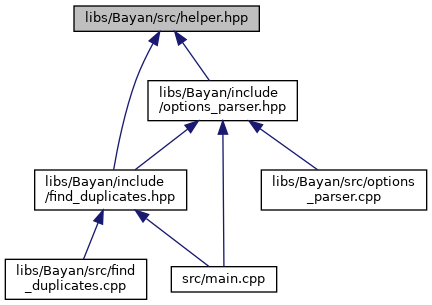
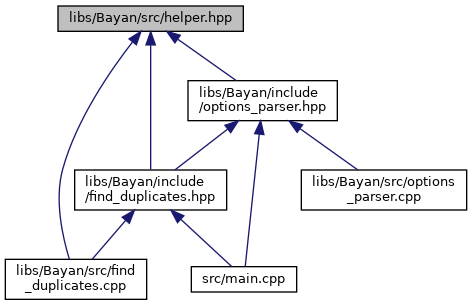
Deploying to gh-pages from @ NotZahar/bayan@f3ab080055457f78f922f0596b9ecba6322375ee 🚀

diff --git a/find__duplicates_8hpp_source.html b/find__duplicates_8hpp_source.html
@@ -74,37 +74,49 @@ $(function() {
 <a href="find__duplicates_8hpp.html">См. документацию.</a><div class="fragment"><div class="line"><a name="l00001"></a><span class="lineno">    1</span>&#160;<span class="preprocessor">#ifndef FIND_DUPLICATES_H</span></div>
 <div class="line"><a name="l00002"></a><span class="lineno">    2</span>&#160;<span class="preprocessor">#define FIND_DUPLICATES_H</span></div>
 <div class="line"><a name="l00003"></a><span class="lineno">    3</span>&#160; </div>
-<div class="line"><a name="l00004"></a><span class="lineno">    4</span>&#160;<span class="preprocessor">#include &lt;unordered_set&gt;</span></div>
-<div class="line"><a name="l00005"></a><span class="lineno">    5</span>&#160; </div>
-<div class="line"><a name="l00006"></a><span class="lineno">    6</span>&#160;<span class="preprocessor">#include &quot;<a class="code" href="options__parser_8hpp.html">options_parser.hpp</a>&quot;</span></div>
-<div class="line"><a name="l00007"></a><span class="lineno">    7</span>&#160;<span class="preprocessor">#include &quot;../src/helper.hpp&quot;</span></div>
+<div class="line"><a name="l00004"></a><span class="lineno">    4</span>&#160;<span class="preprocessor">#include &lt;boost/filesystem/file_status.hpp&gt;</span></div>
+<div class="line"><a name="l00005"></a><span class="lineno">    5</span>&#160;<span class="preprocessor">#include &lt;boost/filesystem/path.hpp&gt;</span></div>
+<div class="line"><a name="l00006"></a><span class="lineno">    6</span>&#160;<span class="preprocessor">#include &lt;boost/unordered_set.hpp&gt;</span></div>
+<div class="line"><a name="l00007"></a><span class="lineno">    7</span>&#160;<span class="preprocessor">#include &lt;boost/regex.hpp&gt;</span></div>
 <div class="line"><a name="l00008"></a><span class="lineno">    8</span>&#160; </div>
-<div class="line"><a name="l00009"></a><span class="lineno"><a class="line" href="namespacebayan.html">    9</a></span>&#160;<span class="keyword">namespace </span><a class="code" href="namespacebayan.html">bayan</a> {</div>
-<div class="line"><a name="l00010"></a><span class="lineno"><a class="line" href="classbayan_1_1FindDuplicates.html">   10</a></span>&#160;    <span class="keyword">class </span><a class="code" href="classbayan_1_1FindDuplicates.html">FindDuplicates</a> {</div>
-<div class="line"><a name="l00011"></a><span class="lineno">   11</span>&#160;    <span class="keyword">public</span>:</div>
-<div class="line"><a name="l00012"></a><span class="lineno"><a class="line" href="classbayan_1_1FindDuplicates.html#abafa29fdb6be05ac0e37fa89cdb2cc69">   12</a></span>&#160;        <a class="code" href="classbayan_1_1FindDuplicates.html#abafa29fdb6be05ac0e37fa89cdb2cc69">FindDuplicates</a>() = <span class="keyword">delete</span>;</div>
-<div class="line"><a name="l00013"></a><span class="lineno">   13</span>&#160;        <span class="keyword">explicit</span> <a class="code" href="classbayan_1_1FindDuplicates.html#abafa29fdb6be05ac0e37fa89cdb2cc69">FindDuplicates</a>(<a class="code" href="structbayan_1_1OptionsParser_1_1Options.html">OptionsParser::Options</a> options);</div>
-<div class="line"><a name="l00014"></a><span class="lineno"><a class="line" href="classbayan_1_1FindDuplicates.html#a43cbff9e5eaf21ba41545597d4b7656d">   14</a></span>&#160;        <a class="code" href="classbayan_1_1FindDuplicates.html#a43cbff9e5eaf21ba41545597d4b7656d">~FindDuplicates</a>() = <span class="keywordflow">default</span>;</div>
-<div class="line"><a name="l00015"></a><span class="lineno">   15</span>&#160; </div>
-<div class="line"><a name="l00016"></a><span class="lineno">   16</span>&#160;        std::string <a class="code" href="classbayan_1_1FindDuplicates.html#acba0a41e3931d625814ad97484a93e3d">duplicates</a>() <span class="keyword">const</span>;</div>
-<div class="line"><a name="l00017"></a><span class="lineno">   17</span>&#160; </div>
-<div class="line"><a name="l00018"></a><span class="lineno">   18</span>&#160;    <span class="keyword">private</span>:</div>
-<div class="line"><a name="l00019"></a><span class="lineno">   19</span>&#160;        std::unordered_set&lt;std::string&gt; _scanDirs;</div>
-<div class="line"><a name="l00020"></a><span class="lineno">   20</span>&#160;        std::unordered_set&lt;std::string&gt; _scanEDirs;</div>
-<div class="line"><a name="l00021"></a><span class="lineno">   21</span>&#160;        std::unordered_set&lt;std::string&gt; _fileMasks;</div>
-<div class="line"><a name="l00022"></a><span class="lineno">   22</span>&#160;        <a class="code" href="namespacebayan.html#acd30b14027858a29aeb308d029a5ec72">scanLevel</a> _level;</div>
-<div class="line"><a name="l00023"></a><span class="lineno">   23</span>&#160;        <span class="keywordtype">unsigned</span> <span class="keywordtype">int</span> _fileMinSize;</div>
-<div class="line"><a name="l00024"></a><span class="lineno">   24</span>&#160;        <span class="keywordtype">unsigned</span> <span class="keywordtype">int</span> _blockSize;</div>
-<div class="line"><a name="l00025"></a><span class="lineno">   25</span>&#160;        <a class="code" href="namespacebayan.html#a6c9e7c798ad66b9e4be5bdac54ef967f">hashAlgorithm</a> _algorithm;</div>
-<div class="line"><a name="l00026"></a><span class="lineno">   26</span>&#160;    };</div>
-<div class="line"><a name="l00027"></a><span class="lineno">   27</span>&#160;}</div>
-<div class="line"><a name="l00028"></a><span class="lineno">   28</span>&#160; </div>
-<div class="line"><a name="l00029"></a><span class="lineno">   29</span>&#160;<span class="preprocessor">#endif </span><span class="comment">// FIND_DUPLICATES_H</span></div>
-<div class="ttc" id="aclassbayan_1_1FindDuplicates_html"><div class="ttname"><a href="classbayan_1_1FindDuplicates.html">bayan::FindDuplicates</a></div><div class="ttdef"><b>Definition:</b> find_duplicates.hpp:10</div></div>
+<div class="line"><a name="l00009"></a><span class="lineno">    9</span>&#160;<span class="preprocessor">#include &quot;<a class="code" href="options__parser_8hpp.html">options_parser.hpp</a>&quot;</span></div>
+<div class="line"><a name="l00010"></a><span class="lineno">   10</span>&#160;<span class="preprocessor">#include &quot;../src/helper.hpp&quot;</span></div>
+<div class="line"><a name="l00011"></a><span class="lineno">   11</span>&#160; </div>
+<div class="line"><a name="l00012"></a><span class="lineno"><a class="line" href="namespacebayan.html">   12</a></span>&#160;<span class="keyword">namespace </span><a class="code" href="namespacebayan.html">bayan</a> {</div>
+<div class="line"><a name="l00013"></a><span class="lineno"><a class="line" href="classbayan_1_1FindDuplicates.html">   13</a></span>&#160;    <span class="keyword">class </span><a class="code" href="classbayan_1_1FindDuplicates.html">FindDuplicates</a> {</div>
+<div class="line"><a name="l00014"></a><span class="lineno">   14</span>&#160;    <span class="keyword">public</span>:</div>
+<div class="line"><a name="l00015"></a><span class="lineno"><a class="line" href="classbayan_1_1FindDuplicates.html#abafa29fdb6be05ac0e37fa89cdb2cc69">   15</a></span>&#160;        <a class="code" href="classbayan_1_1FindDuplicates.html#abafa29fdb6be05ac0e37fa89cdb2cc69">FindDuplicates</a>() = <span class="keyword">delete</span>;</div>
+<div class="line"><a name="l00016"></a><span class="lineno">   16</span>&#160;        <span class="keyword">explicit</span> <a class="code" href="classbayan_1_1FindDuplicates.html#abafa29fdb6be05ac0e37fa89cdb2cc69">FindDuplicates</a>(<a class="code" href="structbayan_1_1OptionsParser_1_1Options.html">OptionsParser::Options</a> options);</div>
+<div class="line"><a name="l00017"></a><span class="lineno"><a class="line" href="classbayan_1_1FindDuplicates.html#a43cbff9e5eaf21ba41545597d4b7656d">   17</a></span>&#160;        <a class="code" href="classbayan_1_1FindDuplicates.html#a43cbff9e5eaf21ba41545597d4b7656d">~FindDuplicates</a>() = <span class="keywordflow">default</span>;</div>
+<div class="line"><a name="l00018"></a><span class="lineno">   18</span>&#160; </div>
+<div class="line"><a name="l00019"></a><span class="lineno">   19</span>&#160;        boost::unordered_set&lt;boost::filesystem::path&gt; <a class="code" href="classbayan_1_1FindDuplicates.html#a07603db4104924e08537a2f0b6f80237">duplicates</a>() <span class="keyword">const</span>;</div>
+<div class="line"><a name="l00020"></a><span class="lineno">   20</span>&#160; </div>
+<div class="line"><a name="l00021"></a><span class="lineno">   21</span>&#160;    <span class="keyword">private</span>:</div>
+<div class="line"><a name="l00022"></a><span class="lineno">   22</span>&#160;        <span class="keyword">enum class</span> fileType {</div>
+<div class="line"><a name="l00023"></a><span class="lineno">   23</span>&#160;            regular,</div>
+<div class="line"><a name="l00024"></a><span class="lineno">   24</span>&#160;            directory,</div>
+<div class="line"><a name="l00025"></a><span class="lineno">   25</span>&#160;            other  </div>
+<div class="line"><a name="l00026"></a><span class="lineno">   26</span>&#160;        };</div>
+<div class="line"><a name="l00027"></a><span class="lineno">   27</span>&#160; </div>
+<div class="line"><a name="l00028"></a><span class="lineno">   28</span>&#160;        fileType getFileType(<span class="keyword">const</span> boost::filesystem::directory_entry&amp; file) <span class="keyword">const</span>;</div>
+<div class="line"><a name="l00029"></a><span class="lineno">   29</span>&#160;        <span class="keywordtype">bool</span> filterPassed(<span class="keyword">const</span> boost::filesystem::path&amp; path) <span class="keyword">const</span>;</div>
+<div class="line"><a name="l00030"></a><span class="lineno">   30</span>&#160; </div>
+<div class="line"><a name="l00031"></a><span class="lineno">   31</span>&#160;        boost::unordered_set&lt;boost::filesystem::path&gt; _scanDirs;</div>
+<div class="line"><a name="l00032"></a><span class="lineno">   32</span>&#160;        boost::unordered_set&lt;boost::filesystem::path&gt; _scanEDirs;</div>
+<div class="line"><a name="l00033"></a><span class="lineno">   33</span>&#160;        boost::unordered_set&lt;boost::regex&gt; _fileMasks;</div>
+<div class="line"><a name="l00034"></a><span class="lineno">   34</span>&#160;        <a class="code" href="namespacebayan.html#acd30b14027858a29aeb308d029a5ec72">scanLevel</a> _level;</div>
+<div class="line"><a name="l00035"></a><span class="lineno">   35</span>&#160;        <span class="keywordtype">unsigned</span> <span class="keywordtype">int</span> _fileMinSize;</div>
+<div class="line"><a name="l00036"></a><span class="lineno">   36</span>&#160;        <span class="keywordtype">unsigned</span> <span class="keywordtype">int</span> _blockSize;</div>
+<div class="line"><a name="l00037"></a><span class="lineno">   37</span>&#160;        <a class="code" href="namespacebayan.html#a6c9e7c798ad66b9e4be5bdac54ef967f">hashAlgorithm</a> _algorithm;</div>
+<div class="line"><a name="l00038"></a><span class="lineno">   38</span>&#160;    };</div>
+<div class="line"><a name="l00039"></a><span class="lineno">   39</span>&#160;}</div>
+<div class="line"><a name="l00040"></a><span class="lineno">   40</span>&#160; </div>
+<div class="line"><a name="l00041"></a><span class="lineno">   41</span>&#160;<span class="preprocessor">#endif </span><span class="comment">// FIND_DUPLICATES_H</span></div>
+<div class="ttc" id="aclassbayan_1_1FindDuplicates_html"><div class="ttname"><a href="classbayan_1_1FindDuplicates.html">bayan::FindDuplicates</a></div><div class="ttdef"><b>Definition:</b> find_duplicates.hpp:13</div></div>
+<div class="ttc" id="aclassbayan_1_1FindDuplicates_html_a07603db4104924e08537a2f0b6f80237"><div class="ttname"><a href="classbayan_1_1FindDuplicates.html#a07603db4104924e08537a2f0b6f80237">bayan::FindDuplicates::duplicates</a></div><div class="ttdeci">boost::unordered_set&lt; boost::filesystem::path &gt; duplicates() const</div><div class="ttdef"><b>Definition:</b> find_duplicates.cpp:34</div></div>
 <div class="ttc" id="aclassbayan_1_1FindDuplicates_html_a43cbff9e5eaf21ba41545597d4b7656d"><div class="ttname"><a href="classbayan_1_1FindDuplicates.html#a43cbff9e5eaf21ba41545597d4b7656d">bayan::FindDuplicates::~FindDuplicates</a></div><div class="ttdeci">~FindDuplicates()=default</div></div>
 <div class="ttc" id="aclassbayan_1_1FindDuplicates_html_abafa29fdb6be05ac0e37fa89cdb2cc69"><div class="ttname"><a href="classbayan_1_1FindDuplicates.html#abafa29fdb6be05ac0e37fa89cdb2cc69">bayan::FindDuplicates::FindDuplicates</a></div><div class="ttdeci">FindDuplicates()=delete</div></div>
-<div class="ttc" id="aclassbayan_1_1FindDuplicates_html_acba0a41e3931d625814ad97484a93e3d"><div class="ttname"><a href="classbayan_1_1FindDuplicates.html#acba0a41e3931d625814ad97484a93e3d">bayan::FindDuplicates::duplicates</a></div><div class="ttdeci">std::string duplicates() const</div><div class="ttdef"><b>Definition:</b> find_duplicates.cpp:24</div></div>
-<div class="ttc" id="anamespacebayan_html"><div class="ttname"><a href="namespacebayan.html">bayan</a></div><div class="ttdef"><b>Definition:</b> find_duplicates.hpp:9</div></div>
+<div class="ttc" id="anamespacebayan_html"><div class="ttname"><a href="namespacebayan.html">bayan</a></div><div class="ttdef"><b>Definition:</b> find_duplicates.hpp:12</div></div>
 <div class="ttc" id="anamespacebayan_html_a6c9e7c798ad66b9e4be5bdac54ef967f"><div class="ttname"><a href="namespacebayan.html#a6c9e7c798ad66b9e4be5bdac54ef967f">bayan::hashAlgorithm</a></div><div class="ttdeci">hashAlgorithm</div><div class="ttdef"><b>Definition:</b> helper.hpp:13</div></div>
 <div class="ttc" id="anamespacebayan_html_acd30b14027858a29aeb308d029a5ec72"><div class="ttname"><a href="namespacebayan.html#acd30b14027858a29aeb308d029a5ec72">bayan::scanLevel</a></div><div class="ttdeci">scanLevel</div><div class="ttdef"><b>Definition:</b> helper.hpp:8</div></div>
 <div class="ttc" id="aoptions__parser_8hpp_html"><div class="ttname"><a href="options__parser_8hpp.html">options_parser.hpp</a></div></div>

diff --git a/options__parser_8hpp_source.html b/options__parser_8hpp_source.html
@@ -98,9 +98,9 @@ $(function() {
 <div class="line"><a name="l00025"></a><span class="lineno"><a class="line" href="structbayan_1_1OptionsParser_1_1Options.html#a9dcc943c116a34f3df2a8a9dc31e0778">   25</a></span>&#160;            <span class="keywordtype">bool</span> <a class="code" href="structbayan_1_1OptionsParser_1_1Options.html#a9dcc943c116a34f3df2a8a9dc31e0778">helper</a> = <span class="keyword">false</span>;</div>
 <div class="line"><a name="l00026"></a><span class="lineno"><a class="line" href="structbayan_1_1OptionsParser_1_1Options.html#a0626a5038a4a9611bf36f52dc5315e58">   26</a></span>&#160;            std::vector&lt;std::string&gt; <a class="code" href="structbayan_1_1OptionsParser_1_1Options.html#a0626a5038a4a9611bf36f52dc5315e58">dirs</a> = { <span class="stringliteral">&quot;./&quot;</span> };</div>
 <div class="line"><a name="l00027"></a><span class="lineno"><a class="line" href="structbayan_1_1OptionsParser_1_1Options.html#a48f891ace7726e1c1a941117fade4af0">   27</a></span>&#160;            std::vector&lt;std::string&gt; <a class="code" href="structbayan_1_1OptionsParser_1_1Options.html#a48f891ace7726e1c1a941117fade4af0">eDirs</a> = {};</div>
-<div class="line"><a name="l00028"></a><span class="lineno"><a class="line" href="structbayan_1_1OptionsParser_1_1Options.html#a739848c0bc3b3d5d01f4e1dc2c2b6e92">   28</a></span>&#160;            <a class="code" href="namespacebayan.html#acd30b14027858a29aeb308d029a5ec72">scanLevel</a> <a class="code" href="structbayan_1_1OptionsParser_1_1Options.html#a739848c0bc3b3d5d01f4e1dc2c2b6e92">level</a> = <a class="code" href="namespacebayan.html#acd30b14027858a29aeb308d029a5ec72a4b3928a5db1f5d996fa2edae70f14fe5">scanLevel::current</a>;</div>
+<div class="line"><a name="l00028"></a><span class="lineno"><a class="line" href="structbayan_1_1OptionsParser_1_1Options.html#a739848c0bc3b3d5d01f4e1dc2c2b6e92">   28</a></span>&#160;            <a class="code" href="namespacebayan.html#acd30b14027858a29aeb308d029a5ec72">scanLevel</a> <a class="code" href="structbayan_1_1OptionsParser_1_1Options.html#a739848c0bc3b3d5d01f4e1dc2c2b6e92">level</a> = <a class="code" href="namespacebayan.html#acd30b14027858a29aeb308d029a5ec72ae6d56afcea8e8f8c9fd2456f2b6333ef">scanLevel::all</a>;</div>
 <div class="line"><a name="l00029"></a><span class="lineno"><a class="line" href="structbayan_1_1OptionsParser_1_1Options.html#a7f900f5eefc86eb4b84a40544c184cc7">   29</a></span>&#160;            <span class="keywordtype">unsigned</span> <span class="keywordtype">int</span> <a class="code" href="structbayan_1_1OptionsParser_1_1Options.html#a7f900f5eefc86eb4b84a40544c184cc7">fileMinSize</a> = 1;</div>
-<div class="line"><a name="l00030"></a><span class="lineno"><a class="line" href="structbayan_1_1OptionsParser_1_1Options.html#ae81161c2ed1ecb5845852b2fdfc58042">   30</a></span>&#160;            std::vector&lt;std::string&gt; <a class="code" href="structbayan_1_1OptionsParser_1_1Options.html#ae81161c2ed1ecb5845852b2fdfc58042">fileMasks</a> = { <span class="stringliteral">&quot;*&quot;</span> };</div>
+<div class="line"><a name="l00030"></a><span class="lineno"><a class="line" href="structbayan_1_1OptionsParser_1_1Options.html#ae81161c2ed1ecb5845852b2fdfc58042">   30</a></span>&#160;            std::vector&lt;std::string&gt; <a class="code" href="structbayan_1_1OptionsParser_1_1Options.html#ae81161c2ed1ecb5845852b2fdfc58042">fileMasks</a> = { <span class="stringliteral">&quot;.*&quot;</span> };</div>
 <div class="line"><a name="l00031"></a><span class="lineno"><a class="line" href="structbayan_1_1OptionsParser_1_1Options.html#adb911a54ca88e56a00f5b808550c91a0">   31</a></span>&#160;            <span class="keywordtype">unsigned</span> <span class="keywordtype">int</span> <a class="code" href="structbayan_1_1OptionsParser_1_1Options.html#adb911a54ca88e56a00f5b808550c91a0">blockSize</a> = 5;</div>
 <div class="line"><a name="l00032"></a><span class="lineno"><a class="line" href="structbayan_1_1OptionsParser_1_1Options.html#a6d46f13243288e16505b35532a22dd0e">   32</a></span>&#160;            <a class="code" href="namespacebayan.html#a6c9e7c798ad66b9e4be5bdac54ef967f">hashAlgorithm</a> <a class="code" href="structbayan_1_1OptionsParser_1_1Options.html#a6d46f13243288e16505b35532a22dd0e">algorithm</a> = <a class="code" href="namespacebayan.html#a6c9e7c798ad66b9e4be5bdac54ef967fa1bc29b36f623ba82aaf6724fd3b16718">hashAlgorithm::md5</a>;</div>
 <div class="line"><a name="l00033"></a><span class="lineno">   33</span>&#160; </div>
@@ -130,12 +130,12 @@ $(function() {
 <div class="ttc" id="aclassbayan_1_1OptionsParser_html_a6259b1e6b41c79ab8a7a301b3dee0365"><div class="ttname"><a href="classbayan_1_1OptionsParser.html#a6259b1e6b41c79ab8a7a301b3dee0365">bayan::OptionsParser::OptionsParser</a></div><div class="ttdeci">OptionsParser()=delete</div></div>
 <div class="ttc" id="aclassbayan_1_1OptionsParser_html_a6e6bbf831885e23f264f9207eebd5731"><div class="ttname"><a href="classbayan_1_1OptionsParser.html#a6e6bbf831885e23f264f9207eebd5731">bayan::OptionsParser::options_description</a></div><div class="ttdeci">boost::program_options::options_description options_description</div><div class="ttdef"><b>Definition:</b> options_parser.hpp:17</div></div>
 <div class="ttc" id="aclassbayan_1_1OptionsParser_html_ae47926ce30e911d109495d0452edd56c"><div class="ttname"><a href="classbayan_1_1OptionsParser.html#ae47926ce30e911d109495d0452edd56c">bayan::OptionsParser::getOptions</a></div><div class="ttdeci">Options getOptions() const</div><div class="ttdef"><b>Definition:</b> options_parser.cpp:13</div></div>
-<div class="ttc" id="anamespacebayan_html"><div class="ttname"><a href="namespacebayan.html">bayan</a></div><div class="ttdef"><b>Definition:</b> find_duplicates.hpp:9</div></div>
+<div class="ttc" id="anamespacebayan_html"><div class="ttname"><a href="namespacebayan.html">bayan</a></div><div class="ttdef"><b>Definition:</b> find_duplicates.hpp:12</div></div>
 <div class="ttc" id="anamespacebayan_html_a6c9e7c798ad66b9e4be5bdac54ef967f"><div class="ttname"><a href="namespacebayan.html#a6c9e7c798ad66b9e4be5bdac54ef967f">bayan::hashAlgorithm</a></div><div class="ttdeci">hashAlgorithm</div><div class="ttdef"><b>Definition:</b> helper.hpp:13</div></div>
 <div class="ttc" id="anamespacebayan_html_a6c9e7c798ad66b9e4be5bdac54ef967fa058063301b99cb43d6165291cb9f086a"><div class="ttname"><a href="namespacebayan.html#a6c9e7c798ad66b9e4be5bdac54ef967fa058063301b99cb43d6165291cb9f086a">bayan::hashAlgorithm::crc32</a></div><div class="ttdeci">@ crc32</div></div>
 <div class="ttc" id="anamespacebayan_html_a6c9e7c798ad66b9e4be5bdac54ef967fa1bc29b36f623ba82aaf6724fd3b16718"><div class="ttname"><a href="namespacebayan.html#a6c9e7c798ad66b9e4be5bdac54ef967fa1bc29b36f623ba82aaf6724fd3b16718">bayan::hashAlgorithm::md5</a></div><div class="ttdeci">@ md5</div></div>
 <div class="ttc" id="anamespacebayan_html_acd30b14027858a29aeb308d029a5ec72"><div class="ttname"><a href="namespacebayan.html#acd30b14027858a29aeb308d029a5ec72">bayan::scanLevel</a></div><div class="ttdeci">scanLevel</div><div class="ttdef"><b>Definition:</b> helper.hpp:8</div></div>
-<div class="ttc" id="anamespacebayan_html_acd30b14027858a29aeb308d029a5ec72a4b3928a5db1f5d996fa2edae70f14fe5"><div class="ttname"><a href="namespacebayan.html#acd30b14027858a29aeb308d029a5ec72a4b3928a5db1f5d996fa2edae70f14fe5">bayan::current</a></div><div class="ttdeci">@ current</div><div class="ttdef"><b>Definition:</b> helper.hpp:9</div></div>
+<div class="ttc" id="anamespacebayan_html_acd30b14027858a29aeb308d029a5ec72ae6d56afcea8e8f8c9fd2456f2b6333ef"><div class="ttname"><a href="namespacebayan.html#acd30b14027858a29aeb308d029a5ec72ae6d56afcea8e8f8c9fd2456f2b6333ef">bayan::all</a></div><div class="ttdeci">@ all</div><div class="ttdef"><b>Definition:</b> helper.hpp:10</div></div>
 <div class="ttc" id="astructbayan_1_1OptionsParser_1_1Options_html"><div class="ttname"><a href="structbayan_1_1OptionsParser_1_1Options.html">bayan::OptionsParser::Options</a></div><div class="ttdef"><b>Definition:</b> options_parser.hpp:24</div></div>
 <div class="ttc" id="astructbayan_1_1OptionsParser_1_1Options_html_a0626a5038a4a9611bf36f52dc5315e58"><div class="ttname"><a href="structbayan_1_1OptionsParser_1_1Options.html#a0626a5038a4a9611bf36f52dc5315e58">bayan::OptionsParser::Options::dirs</a></div><div class="ttdeci">std::vector&lt; std::string &gt; dirs</div><div class="ttdef"><b>Definition:</b> options_parser.hpp:26</div></div>
 <div class="ttc" id="astructbayan_1_1OptionsParser_1_1Options_html_a48f891ace7726e1c1a941117fade4af0"><div class="ttname"><a href="structbayan_1_1OptionsParser_1_1Options.html#a48f891ace7726e1c1a941117fade4af0">bayan::OptionsParser::Options::eDirs</a></div><div class="ttdeci">std::vector&lt; std::string &gt; eDirs</div><div class="ttdef"><b>Definition:</b> options_parser.hpp:27</div></div>

diff --git a/structbayan_1_1OptionsParser_1_1Options.html b/structbayan_1_1OptionsParser_1_1Options.html
@@ -86,11 +86,11 @@ $(function() {
 <tr class="separator:a0626a5038a4a9611bf36f52dc5315e58"><td class="memSeparator" colspan="2">&#160;</td></tr>
 <tr class="memitem:a48f891ace7726e1c1a941117fade4af0"><td class="memItemLeft" align="right" valign="top">std::vector&lt; std::string &gt;&#160;</td><td class="memItemRight" valign="bottom"><a class="el" href="structbayan_1_1OptionsParser_1_1Options.html#a48f891ace7726e1c1a941117fade4af0">eDirs</a> = {}</td></tr>
 <tr class="separator:a48f891ace7726e1c1a941117fade4af0"><td class="memSeparator" colspan="2">&#160;</td></tr>
-<tr class="memitem:a739848c0bc3b3d5d01f4e1dc2c2b6e92"><td class="memItemLeft" align="right" valign="top"><a class="el" href="namespacebayan.html#acd30b14027858a29aeb308d029a5ec72">scanLevel</a>&#160;</td><td class="memItemRight" valign="bottom"><a class="el" href="structbayan_1_1OptionsParser_1_1Options.html#a739848c0bc3b3d5d01f4e1dc2c2b6e92">level</a> = scanLevel::current</td></tr>
+<tr class="memitem:a739848c0bc3b3d5d01f4e1dc2c2b6e92"><td class="memItemLeft" align="right" valign="top"><a class="el" href="namespacebayan.html#acd30b14027858a29aeb308d029a5ec72">scanLevel</a>&#160;</td><td class="memItemRight" valign="bottom"><a class="el" href="structbayan_1_1OptionsParser_1_1Options.html#a739848c0bc3b3d5d01f4e1dc2c2b6e92">level</a> = scanLevel::all</td></tr>
 <tr class="separator:a739848c0bc3b3d5d01f4e1dc2c2b6e92"><td class="memSeparator" colspan="2">&#160;</td></tr>
 <tr class="memitem:a7f900f5eefc86eb4b84a40544c184cc7"><td class="memItemLeft" align="right" valign="top">unsigned int&#160;</td><td class="memItemRight" valign="bottom"><a class="el" href="structbayan_1_1OptionsParser_1_1Options.html#a7f900f5eefc86eb4b84a40544c184cc7">fileMinSize</a> = 1</td></tr>
 <tr class="separator:a7f900f5eefc86eb4b84a40544c184cc7"><td class="memSeparator" colspan="2">&#160;</td></tr>
-<tr class="memitem:ae81161c2ed1ecb5845852b2fdfc58042"><td class="memItemLeft" align="right" valign="top">std::vector&lt; std::string &gt;&#160;</td><td class="memItemRight" valign="bottom"><a class="el" href="structbayan_1_1OptionsParser_1_1Options.html#ae81161c2ed1ecb5845852b2fdfc58042">fileMasks</a> = { &quot;*&quot; }</td></tr>
+<tr class="memitem:ae81161c2ed1ecb5845852b2fdfc58042"><td class="memItemLeft" align="right" valign="top">std::vector&lt; std::string &gt;&#160;</td><td class="memItemRight" valign="bottom"><a class="el" href="structbayan_1_1OptionsParser_1_1Options.html#ae81161c2ed1ecb5845852b2fdfc58042">fileMasks</a> = { &quot;.*&quot; }</td></tr>
 <tr class="separator:ae81161c2ed1ecb5845852b2fdfc58042"><td class="memSeparator" colspan="2">&#160;</td></tr>
 <tr class="memitem:adb911a54ca88e56a00f5b808550c91a0"><td class="memItemLeft" align="right" valign="top">unsigned int&#160;</td><td class="memItemRight" valign="bottom"><a class="el" href="structbayan_1_1OptionsParser_1_1Options.html#adb911a54ca88e56a00f5b808550c91a0">blockSize</a> = 5</td></tr>
 <tr class="separator:adb911a54ca88e56a00f5b808550c91a0"><td class="memSeparator" colspan="2">&#160;</td></tr>
@@ -203,7 +203,7 @@ $(function() {
 <div class="memproto">
       <table class="memname">
         <tr>
-          <td class="memname">std::vector&lt;std::string&gt; bayan::OptionsParser::Options::fileMasks = { &quot;*&quot; }</td>
+          <td class="memname">std::vector&lt;std::string&gt; bayan::OptionsParser::Options::fileMasks = { &quot;.*&quot; }</td>
         </tr>
       </table>
 </div><div class="memdoc">
@@ -245,7 +245,7 @@ $(function() {
 <div class="memproto">
       <table class="memname">
         <tr>
-          <td class="memname"><a class="el" href="namespacebayan.html#acd30b14027858a29aeb308d029a5ec72">scanLevel</a> bayan::OptionsParser::Options::level = scanLevel::current</td>
+          <td class="memname"><a class="el" href="namespacebayan.html#acd30b14027858a29aeb308d029a5ec72">scanLevel</a> bayan::OptionsParser::Options::level = scanLevel::all</td>
         </tr>
       </table>
 </div><div class="memdoc">

diff --git a/find__duplicates_8cpp.html b/find__duplicates_8cpp.html
@@ -74,29 +74,42 @@ $(function() {
 </div><!--header-->
 <div class="contents">
 <div class="textblock"><code>#include &quot;<a class="el" href="find__duplicates_8hpp_source.html">find_duplicates.hpp</a>&quot;</code><br />
+<code>#include &lt;boost/filesystem/directory.hpp&gt;</code><br />
+<code>#include &lt;boost/filesystem/file_status.hpp&gt;</code><br />
 <code>#include &lt;boost/interprocess/file_mapping.hpp&gt;</code><br />
 <code>#include &lt;boost/interprocess/mapped_region.hpp&gt;</code><br />
 <code>#include &lt;boost/filesystem/operations.hpp&gt;</code><br />
+<code>#include &lt;boost/container/list.hpp&gt;</code><br />
+<code>#include &lt;boost/range/algorithm.hpp&gt;</code><br />
+<code>#include &lt;boost/algorithm/cxx11/all_of.hpp&gt;</code><br />
+<code>#include &quot;<a class="el" href="helper_8hpp_source.html">helper.hpp</a>&quot;</code><br />
 </div><div class="textblock"><div class="dynheader">
 Граф включаемых заголовочных файлов для find_duplicates.cpp:</div>
 <div class="dyncontent">
 <div class="center"><img src="find__duplicates_8cpp__incl.png" border="0" usemap="#alibs_2Bayan_2src_2find__duplicates_8cpp" alt=""/></div>
 <map name="alibs_2Bayan_2src_2find__duplicates_8cpp" id="alibs_2Bayan_2src_2find__duplicates_8cpp">
-<area shape="rect" title=" " alt="" coords="579,5,720,47"/>
-<area shape="rect" href="find__duplicates_8hpp.html" title=" " alt="" coords="319,102,467,129"/>
-<area shape="rect" title=" " alt="" coords="491,95,634,136"/>
-<area shape="rect" title=" " alt="" coords="659,95,813,136"/>
-<area shape="rect" title=" " alt="" coords="838,102,1069,129"/>
-<area shape="rect" title=" " alt="" coords="181,184,296,211"/>
-<area shape="rect" href="options__parser_8hpp.html" title=" " alt="" coords="321,184,466,211"/>
-<area shape="rect" href="helper_8hpp.html" title=" " alt="" coords="787,259,912,285"/>
-<area shape="rect" title=" " alt="" coords="5,259,75,285"/>
-<area shape="rect" title=" " alt="" coords="395,333,475,360"/>
-<area shape="rect" title=" " alt="" coords="149,259,227,285"/>
-<area shape="rect" title=" " alt="" coords="251,259,381,285"/>
-<area shape="rect" title=" " alt="" coords="406,259,538,285"/>
-<area shape="rect" title=" " alt="" coords="563,259,763,285"/>
-<area shape="rect" title=" " alt="" coords="820,333,879,360"/>
+<area shape="rect" title=" " alt="" coords="1359,5,1500,47"/>
+<area shape="rect" href="find__duplicates_8hpp.html" title=" " alt="" coords="595,102,743,129"/>
+<area shape="rect" title=" " alt="" coords="5,184,160,225"/>
+<area shape="rect" href="helper_8hpp.html" title=" " alt="" coords="1144,273,1269,300"/>
+<area shape="rect" title=" " alt="" coords="1028,102,1247,129"/>
+<area shape="rect" title=" " alt="" coords="1271,95,1414,136"/>
+<area shape="rect" title=" " alt="" coords="1439,95,1593,136"/>
+<area shape="rect" title=" " alt="" coords="1618,102,1849,129"/>
+<area shape="rect" title=" " alt="" coords="1873,102,2047,129"/>
+<area shape="rect" title=" " alt="" coords="2072,102,2267,129"/>
+<area shape="rect" title=" " alt="" coords="2291,95,2459,136"/>
+<area shape="rect" title=" " alt="" coords="185,191,375,218"/>
+<area shape="rect" title=" " alt="" coords="399,191,582,218"/>
+<area shape="rect" title=" " alt="" coords="606,191,733,218"/>
+<area shape="rect" href="options__parser_8hpp.html" title=" " alt="" coords="757,191,902,218"/>
+<area shape="rect" title=" " alt="" coords="363,273,432,300"/>
+<area shape="rect" title=" " alt="" coords="752,348,832,375"/>
+<area shape="rect" title=" " alt="" coords="507,273,584,300"/>
+<area shape="rect" title=" " alt="" coords="608,273,739,300"/>
+<area shape="rect" title=" " alt="" coords="763,273,895,300"/>
+<area shape="rect" title=" " alt="" coords="920,273,1120,300"/>
+<area shape="rect" title=" " alt="" coords="1177,348,1236,375"/>
 </map>
 </div>
 </div><table class="memberdecls">

diff --git a/find__duplicates_8hpp.html b/find__duplicates_8hpp.html
@@ -74,7 +74,10 @@ $(function() {
 <div class="title">Файл find_duplicates.hpp</div>  </div>
 </div><!--header-->
 <div class="contents">
-<div class="textblock"><code>#include &lt;unordered_set&gt;</code><br />
+<div class="textblock"><code>#include &lt;boost/filesystem/file_status.hpp&gt;</code><br />
+<code>#include &lt;boost/filesystem/path.hpp&gt;</code><br />
+<code>#include &lt;boost/unordered_set.hpp&gt;</code><br />
+<code>#include &lt;boost/regex.hpp&gt;</code><br />
 <code>#include &quot;<a class="el" href="options__parser_8hpp_source.html">options_parser.hpp</a>&quot;</code><br />
 <code>#include &quot;<a class="el" href="helper_8hpp_source.html">../src/helper.hpp</a>&quot;</code><br />
 </div><div class="textblock"><div class="dynheader">
@@ -82,17 +85,20 @@ $(function() {
 <div class="dyncontent">
 <div class="center"><img src="find__duplicates_8hpp__incl.png" border="0" usemap="#alibs_2Bayan_2include_2find__duplicates_8hpp" alt=""/></div>
 <map name="alibs_2Bayan_2include_2find__duplicates_8hpp" id="alibs_2Bayan_2include_2find__duplicates_8hpp">
-<area shape="rect" title=" " alt="" coords="317,5,469,47"/>
-<area shape="rect" title=" " alt="" coords="181,95,296,121"/>
-<area shape="rect" href="options__parser_8hpp.html" title=" " alt="" coords="321,95,466,121"/>
-<area shape="rect" href="helper_8hpp.html" title=" " alt="" coords="787,169,912,196"/>
-<area shape="rect" title=" " alt="" coords="5,169,75,196"/>
-<area shape="rect" title=" " alt="" coords="395,244,475,271"/>
-<area shape="rect" title=" " alt="" coords="149,169,227,196"/>
-<area shape="rect" title=" " alt="" coords="251,169,381,196"/>
-<area shape="rect" title=" " alt="" coords="406,169,538,196"/>
-<area shape="rect" title=" " alt="" coords="563,169,763,196"/>
-<area shape="rect" title=" " alt="" coords="820,244,879,271"/>
+<area shape="rect" title=" " alt="" coords="504,5,656,47"/>
+<area shape="rect" title=" " alt="" coords="5,95,160,136"/>
+<area shape="rect" title=" " alt="" coords="185,102,375,129"/>
+<area shape="rect" title=" " alt="" coords="399,102,582,129"/>
+<area shape="rect" title=" " alt="" coords="606,102,733,129"/>
+<area shape="rect" href="options__parser_8hpp.html" title=" " alt="" coords="757,102,902,129"/>
+<area shape="rect" href="helper_8hpp.html" title=" " alt="" coords="1221,184,1347,211"/>
+<area shape="rect" title=" " alt="" coords="440,184,509,211"/>
+<area shape="rect" title=" " alt="" coords="829,259,909,285"/>
+<area shape="rect" title=" " alt="" coords="584,184,661,211"/>
+<area shape="rect" title=" " alt="" coords="685,184,816,211"/>
+<area shape="rect" title=" " alt="" coords="841,184,973,211"/>
+<area shape="rect" title=" " alt="" coords="997,184,1197,211"/>
+<area shape="rect" title=" " alt="" coords="1255,259,1313,285"/>
 </map>
 </div>
 </div><div class="textblock"><div class="dynheader">

diff --git a/classbayan_1_1FindDuplicates.html b/classbayan_1_1FindDuplicates.html
@@ -85,8 +85,8 @@ $(function() {
 <tr class="separator:a7e90ac128fc362860f0ab2ae2a803263"><td class="memSeparator" colspan="2">&#160;</td></tr>
 <tr class="memitem:a43cbff9e5eaf21ba41545597d4b7656d"><td class="memItemLeft" align="right" valign="top">&#160;</td><td class="memItemRight" valign="bottom"><a class="el" href="classbayan_1_1FindDuplicates.html#a43cbff9e5eaf21ba41545597d4b7656d">~FindDuplicates</a> ()=default</td></tr>
 <tr class="separator:a43cbff9e5eaf21ba41545597d4b7656d"><td class="memSeparator" colspan="2">&#160;</td></tr>
-<tr class="memitem:acba0a41e3931d625814ad97484a93e3d"><td class="memItemLeft" align="right" valign="top">std::string&#160;</td><td class="memItemRight" valign="bottom"><a class="el" href="classbayan_1_1FindDuplicates.html#acba0a41e3931d625814ad97484a93e3d">duplicates</a> () const</td></tr>
-<tr class="separator:acba0a41e3931d625814ad97484a93e3d"><td class="memSeparator" colspan="2">&#160;</td></tr>
+<tr class="memitem:a07603db4104924e08537a2f0b6f80237"><td class="memItemLeft" align="right" valign="top">boost::unordered_set&lt; boost::filesystem::path &gt;&#160;</td><td class="memItemRight" valign="bottom"><a class="el" href="classbayan_1_1FindDuplicates.html#a07603db4104924e08537a2f0b6f80237">duplicates</a> () const</td></tr>
+<tr class="separator:a07603db4104924e08537a2f0b6f80237"><td class="memSeparator" colspan="2">&#160;</td></tr>
 </table>
 <h2 class="groupheader">Конструктор(ы)</h2>
 <a id="abafa29fdb6be05ac0e37fa89cdb2cc69"></a>
@@ -166,14 +166,14 @@ $(function() {
 </div>
 </div>
 <h2 class="groupheader">Методы</h2>
-<a id="acba0a41e3931d625814ad97484a93e3d"></a>
-<h2 class="memtitle"><span class="permalink"><a href="#acba0a41e3931d625814ad97484a93e3d">&#9670;&nbsp;</a></span>duplicates()</h2>
+<a id="a07603db4104924e08537a2f0b6f80237"></a>
+<h2 class="memtitle"><span class="permalink"><a href="#a07603db4104924e08537a2f0b6f80237">&#9670;&nbsp;</a></span>duplicates()</h2>
 
 <div class="memitem">
 <div class="memproto">
       <table class="memname">
         <tr>
-          <td class="memname">std::string bayan::FindDuplicates::duplicates </td>
+          <td class="memname">boost::unordered_set&lt; boost_fs::path &gt; bayan::FindDuplicates::duplicates </td>
           <td>(</td>
           <td class="paramname"></td><td>)</td>
           <td> const</td>

diff --git a/main_8cpp.html b/main_8cpp.html
@@ -81,18 +81,21 @@ $(function() {
 <div class="dyncontent">
 <div class="center"><img src="main_8cpp__incl.png" border="0" usemap="#asrc_2main_8cpp" alt=""/></div>
 <map name="asrc_2main_8cpp" id="asrc_2main_8cpp">
-<area shape="rect" title=" " alt="" coords="289,5,394,32"/>
-<area shape="rect" title=" " alt="" coords="5,304,85,331"/>
-<area shape="rect" href="options__parser_8hpp.html" title=" " alt="" coords="270,155,415,181"/>
-<area shape="rect" href="find__duplicates_8hpp.html" title=" " alt="" coords="379,80,527,107"/>
-<area shape="rect" title=" " alt="" coords="83,229,152,256"/>
-<area shape="rect" title=" " alt="" coords="176,229,253,256"/>
-<area shape="rect" title=" " alt="" coords="277,229,408,256"/>
-<area shape="rect" title=" " alt="" coords="433,229,565,256"/>
-<area shape="rect" title=" " alt="" coords="589,229,789,256"/>
-<area shape="rect" href="helper_8hpp.html" title=" " alt="" coords="813,229,939,256"/>
-<area shape="rect" title=" " alt="" coords="847,304,905,331"/>
-<area shape="rect" title=" " alt="" coords="491,155,605,181"/>
+<area shape="rect" title=" " alt="" coords="290,5,395,32"/>
+<area shape="rect" title=" " alt="" coords="5,319,85,345"/>
+<area shape="rect" href="options__parser_8hpp.html" title=" " alt="" coords="270,162,415,189"/>
+<area shape="rect" href="find__duplicates_8hpp.html" title=" " alt="" coords="494,80,642,107"/>
+<area shape="rect" title=" " alt="" coords="83,244,152,271"/>
+<area shape="rect" title=" " alt="" coords="176,244,253,271"/>
+<area shape="rect" title=" " alt="" coords="277,244,408,271"/>
+<area shape="rect" title=" " alt="" coords="433,244,565,271"/>
+<area shape="rect" title=" " alt="" coords="589,244,789,271"/>
+<area shape="rect" href="helper_8hpp.html" title=" " alt="" coords="813,244,939,271"/>
+<area shape="rect" title=" " alt="" coords="847,319,905,345"/>
+<area shape="rect" title=" " alt="" coords="491,155,645,196"/>
+<area shape="rect" title=" " alt="" coords="670,162,861,189"/>
+<area shape="rect" title=" " alt="" coords="885,162,1067,189"/>
+<area shape="rect" title=" " alt="" coords="1091,162,1218,189"/>
 </map>
 </div>
 </div><table class="memberdecls">

diff --git a/classbayan_1_1FindDuplicates-members.html b/classbayan_1_1FindDuplicates-members.html
@@ -74,7 +74,7 @@ $(function() {
 
 <p>Полный список членов класса <a class="el" href="classbayan_1_1FindDuplicates.html">bayan::FindDuplicates</a>, включая наследуемые из базового класса</p>
 <table class="directory">
-  <tr class="even"><td class="entry"><a class="el" href="classbayan_1_1FindDuplicates.html#acba0a41e3931d625814ad97484a93e3d">duplicates</a>() const</td><td class="entry"><a class="el" href="classbayan_1_1FindDuplicates.html">bayan::FindDuplicates</a></td><td class="entry"></td></tr>
+  <tr class="even"><td class="entry"><a class="el" href="classbayan_1_1FindDuplicates.html#a07603db4104924e08537a2f0b6f80237">duplicates</a>() const</td><td class="entry"><a class="el" href="classbayan_1_1FindDuplicates.html">bayan::FindDuplicates</a></td><td class="entry"></td></tr>
   <tr><td class="entry"><a class="el" href="classbayan_1_1FindDuplicates.html#abafa29fdb6be05ac0e37fa89cdb2cc69">FindDuplicates</a>()=delete</td><td class="entry"><a class="el" href="classbayan_1_1FindDuplicates.html">bayan::FindDuplicates</a></td><td class="entry"></td></tr>
   <tr class="even"><td class="entry"><a class="el" href="classbayan_1_1FindDuplicates.html#a7e90ac128fc362860f0ab2ae2a803263">FindDuplicates</a>(OptionsParser::Options options)</td><td class="entry"><a class="el" href="classbayan_1_1FindDuplicates.html">bayan::FindDuplicates</a></td><td class="entry"><span class="mlabel">explicit</span></td></tr>
   <tr><td class="entry"><a class="el" href="classbayan_1_1FindDuplicates.html#a43cbff9e5eaf21ba41545597d4b7656d">~FindDuplicates</a>()=default</td><td class="entry"><a class="el" href="classbayan_1_1FindDuplicates.html">bayan::FindDuplicates</a></td><td class="entry"></td></tr>

diff --git a/helper_8hpp_source.html b/helper_8hpp_source.html
@@ -161,7 +161,7 @@ $(function() {
 <div class="line"><a name="l00088"></a><span class="lineno">   88</span>&#160;}</div>
 <div class="line"><a name="l00089"></a><span class="lineno">   89</span>&#160; </div>
 <div class="line"><a name="l00090"></a><span class="lineno">   90</span>&#160;<span class="preprocessor">#endif </span><span class="comment">// HELPER_H</span></div>
-<div class="ttc" id="anamespacebayan_html"><div class="ttname"><a href="namespacebayan.html">bayan</a></div><div class="ttdef"><b>Definition:</b> find_duplicates.hpp:9</div></div>
+<div class="ttc" id="anamespacebayan_html"><div class="ttname"><a href="namespacebayan.html">bayan</a></div><div class="ttdef"><b>Definition:</b> find_duplicates.hpp:12</div></div>
 <div class="ttc" id="anamespacebayan_html_a6c9e7c798ad66b9e4be5bdac54ef967f"><div class="ttname"><a href="namespacebayan.html#a6c9e7c798ad66b9e4be5bdac54ef967f">bayan::hashAlgorithm</a></div><div class="ttdeci">hashAlgorithm</div><div class="ttdef"><b>Definition:</b> helper.hpp:13</div></div>
 <div class="ttc" id="anamespacebayan_html_a6c9e7c798ad66b9e4be5bdac54ef967fa058063301b99cb43d6165291cb9f086a"><div class="ttname"><a href="namespacebayan.html#a6c9e7c798ad66b9e4be5bdac54ef967fa058063301b99cb43d6165291cb9f086a">bayan::hashAlgorithm::crc32</a></div><div class="ttdeci">@ crc32</div></div>
 <div class="ttc" id="anamespacebayan_html_a6c9e7c798ad66b9e4be5bdac54ef967fa1bc29b36f623ba82aaf6724fd3b16718"><div class="ttname"><a href="namespacebayan.html#a6c9e7c798ad66b9e4be5bdac54ef967fa1bc29b36f623ba82aaf6724fd3b16718">bayan::hashAlgorithm::md5</a></div><div class="ttdeci">@ md5</div></div>

diff --git a/md_README.html b/md_README.html
@@ -72,7 +72,7 @@ $(function() {
 <p><b>-h</b> печать описания параметров <br  />
  <b>-d</b> директория для сканирования <br  />
  <b>-e</b> директория для исключения из сканирования <br  />
- <b>-l</b> уровень сканирования (<code>0</code> - только указанные директории, <code>1</code> - все директории) <br  />
+ <b>-l</b> уровень сканирования (<code>0</code> - только указанные директории, <code>1</code> - указанные + вложенные) <br  />
  <b>-f</b> минимальный размер файла (&gt;= <code>1</code>) <br  />
  <b>-m</b> маски имен файлов разрешенных для сравнения (регулярное выражение, параметр указывается в конце) <br  />
  <b>-b</b> размер блока чтения <br  />
@@ -80,7 +80,7 @@ $(function() {
 </p>
 <h4><a class="anchor" id="autotoc_md2"></a>
 Пример:</h4>
-<p><code>bayan -d./dir1 -d"../dir 2" -e./dir1 -e"../nested dir 2" -l0 -f1 -m"*.cpp" -m"cpp.*" -b5 -amd5</code></p>
+<p><code>bayan -d./test -d"./libs" -e"./test/test 1" -l1 -f1 -m".*\\.txt" -m".*a{1,}.*" -b5 -amd5</code></p>
 <p>Документация: <a href="https://notzahar.github.io/bayan/">https://notzahar.github.io/bayan/</a> </p>
 </div></div><!-- contents -->
 </div><!-- PageDoc -->

diff --git a/search/all_0.js b/search/all_0.js
@@ -1,7 +1,7 @@
 var searchData=
 [
-  ['algorithm_0',['ALGORITHM',['../structbayan_1_1messages_1_1general.html#a64b3faa63e93eb112241e5dc013b4527',1,'bayan::messages::general::ALGORITHM()'],['../structbayan_1_1messages_1_1commands.html#a8d1a9928d08fd724c7985e5e0206dfa6',1,'bayan::messages::commands::ALGORITHM()']]],
-  ['algorithm_1',['algorithm',['../structbayan_1_1OptionsParser_1_1Options.html#a6d46f13243288e16505b35532a22dd0e',1,'bayan::OptionsParser::Options']]],
+  ['algorithm_0',['algorithm',['../structbayan_1_1OptionsParser_1_1Options.html#a6d46f13243288e16505b35532a22dd0e',1,'bayan::OptionsParser::Options']]],
+  ['algorithm_1',['ALGORITHM',['../structbayan_1_1messages_1_1general.html#a64b3faa63e93eb112241e5dc013b4527',1,'bayan::messages::general::ALGORITHM()'],['../structbayan_1_1messages_1_1commands.html#a8d1a9928d08fd724c7985e5e0206dfa6',1,'bayan::messages::commands::ALGORITHM()']]],
   ['algorithm_5fdescr_2',['ALGORITHM_DESCR',['../structbayan_1_1messages_1_1commands.html#ab67847e4795ca6e8e619b6a364bd2ab4',1,'bayan::messages::commands']]],
   ['algorithm_5ff_3',['ALGORITHM_F',['../structbayan_1_1messages_1_1commands.html#a30f8da548e8546228b34ed38d355784d',1,'bayan::messages::commands']]],
   ['all_4',['all',['../namespacebayan.html#acd30b14027858a29aeb308d029a5ec72ae6d56afcea8e8f8c9fd2456f2b6333ef',1,'bayan']]]

diff --git a/search/all_3.js b/search/all_3.js
@@ -3,7 +3,7 @@ var searchData=
   ['dir_5fscan_15',['DIR_SCAN',['../structbayan_1_1messages_1_1commands.html#a4dc29bf711ea6c4735f324b188c8ee2b',1,'bayan::messages::commands']]],
   ['dir_5fscan_5fdescr_16',['DIR_SCAN_DESCR',['../structbayan_1_1messages_1_1commands.html#ae228f0868fc59c4d0155ff7716636d20',1,'bayan::messages::commands']]],
   ['dir_5fscan_5ff_17',['DIR_SCAN_F',['../structbayan_1_1messages_1_1commands.html#a41eac7ac1ac75b81a487a73b56a038a7',1,'bayan::messages::commands']]],
-  ['dirs_18',['dirs',['../structbayan_1_1OptionsParser_1_1Options.html#a0626a5038a4a9611bf36f52dc5315e58',1,'bayan::OptionsParser::Options']]],
-  ['dirs_19',['DIRS',['../structbayan_1_1messages_1_1general.html#a63ab65738188be6f30dac240aee2a45e',1,'bayan::messages::general']]],
-  ['duplicates_20',['duplicates',['../classbayan_1_1FindDuplicates.html#acba0a41e3931d625814ad97484a93e3d',1,'bayan::FindDuplicates']]]
+  ['dirs_18',['DIRS',['../structbayan_1_1messages_1_1general.html#a63ab65738188be6f30dac240aee2a45e',1,'bayan::messages::general']]],
+  ['dirs_19',['dirs',['../structbayan_1_1OptionsParser_1_1Options.html#a0626a5038a4a9611bf36f52dc5315e58',1,'bayan::OptionsParser::Options']]],
+  ['duplicates_20',['duplicates',['../classbayan_1_1FindDuplicates.html#a07603db4104924e08537a2f0b6f80237',1,'bayan::FindDuplicates']]]
 ];
